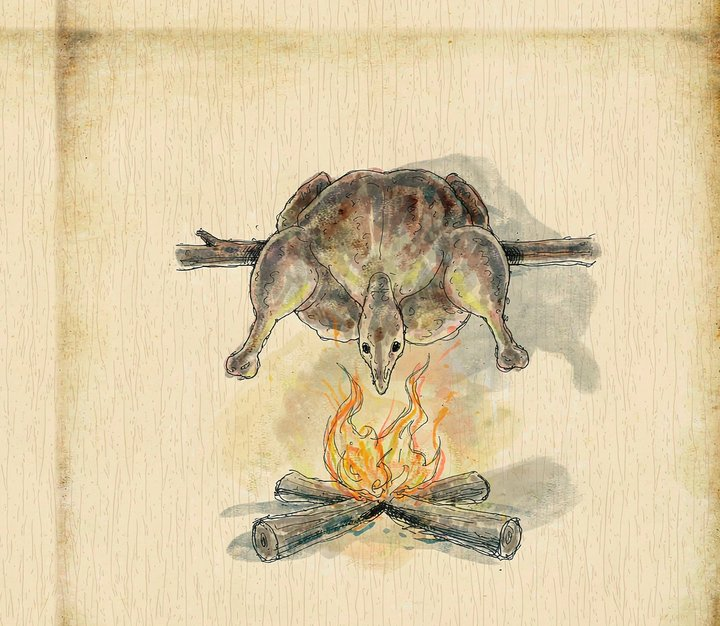
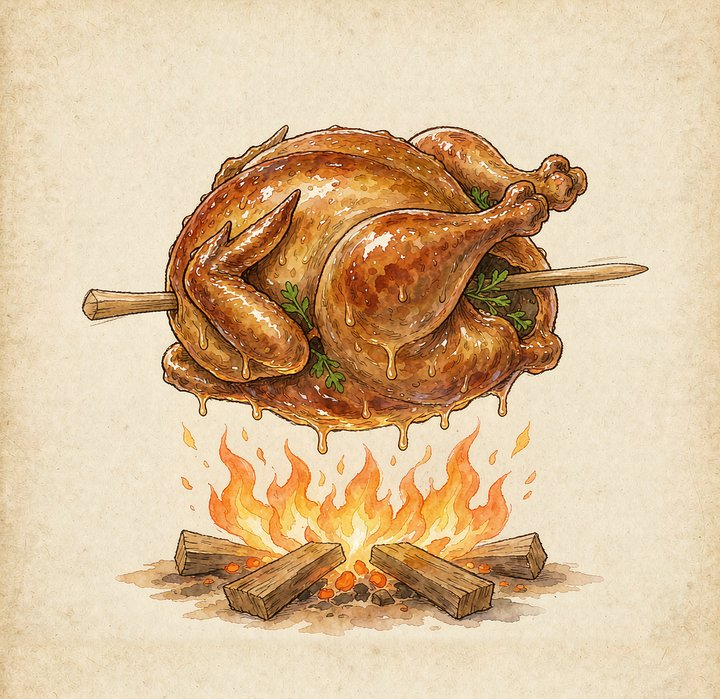
修复重建管线回退：烤鸡恢复金黄版、小锤斧居中放大重画；小丑面具右移居中+裁底部绳头；插图contain完整显示不再下移裁切

diff --git a/deck.html b/deck.html
@@ -44,9 +44,9 @@ h1 small{font-size:13px;color:#9a927d;font-weight:400;display:block;margin-top:6
 .plaque .tag{font-weight:400;font-size:13px}
 .illus{flex:0 0 124px;display:flex;align-items:center;justify-content:center;margin:4px 0 2px;overflow:hidden}
 .illus span{font-size:96px;line-height:1;filter:drop-shadow(4px 7px 6px rgba(60,40,10,.30)) drop-shadow(0 0 14px rgba(255,250,225,.45))}
-/* 手绘实物插图：底部多裁 12% 遮掉图片水印，做旧滤镜融入纸面 */
-.illus img{width:96%;height:114%;object-fit:cover;object-position:center 32%;border-radius:8px;
-  filter:sepia(.10) saturate(.90) contrast(.95) brightness(1.02);box-shadow:0 3px 8px rgba(60,40,10,.25)}
+/* 手绘实物插图：完整显示不裁切（水印已在生成端裁掉），做旧滤镜融入纸面 */
+.illus img{width:100%;height:100%;object-fit:contain;border-radius:8px;
+  filter:sepia(.10) saturate(.90) contrast(.95) brightness(1.02)}
 .code{font-size:10px;letter-spacing:2px;color:#6b5f45;border-bottom:1.5px solid #6b5f45;padding:0 0 4px;margin-bottom:7px}
 /* 固定 8 槽：左列 饱食度/心情/营养/价值，右列 解渴/理智/卡路里/重量 —— 与模板卡一致 */
 .stats{display:grid;grid-template-columns:1fr 1fr;gap:3px 14px;font-size:12.5px;font-weight:700;line-height:1.55}
